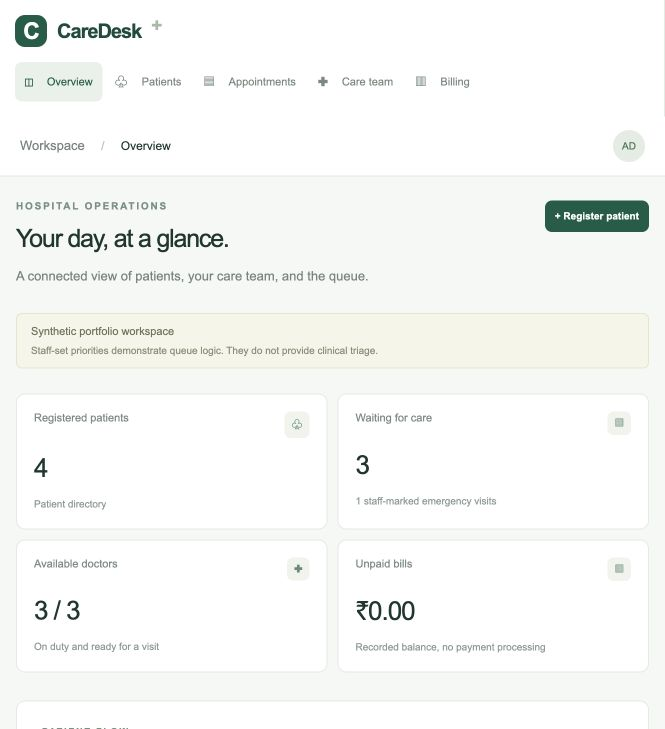
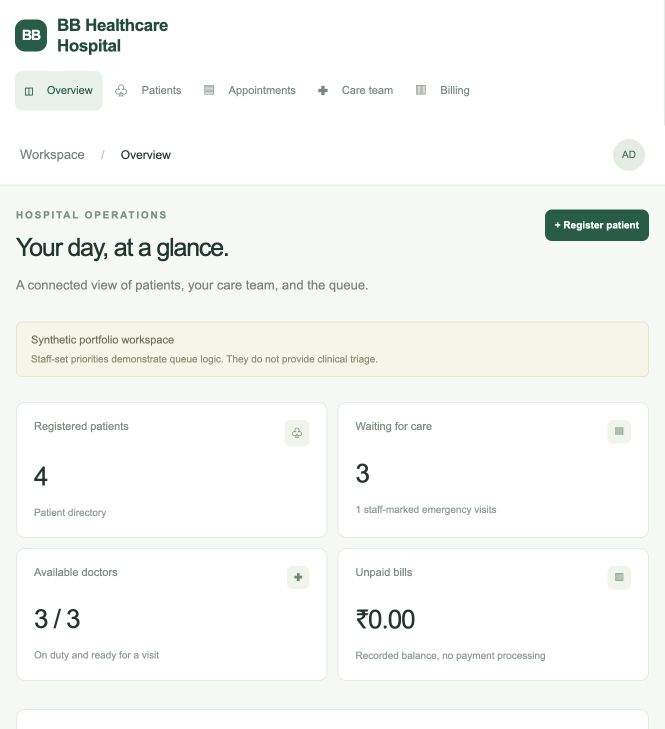
Rename hospital to BB Healthcare Hospital and update doctor names

diff --git a/frontend/style.css b/frontend/style.css
@@ -1,1 +1,3 @@
 :root{font-family:Arial,Helvetica,sans-serif;color:#20362f;background:#f6f8f6;font-synthesis:none;--green:#285c48;--muted:#78857e;--line:#e4eae6}*{box-sizing:border-box}body{margin:0}button,input,select,textarea{font:inherit}button{cursor:pointer;border:0;border-radius:7px;background:var(--green);color:white;padding:12px 18px;font-size:13px;font-weight:600}button:hover{filter:brightness(.94)}button:disabled{opacity:.5;cursor:wait}button:focus-visible,a:focus-visible{outline:3px solid #c5a560;outline-offset:3px}input,select,textarea{width:100%;border:1px solid #d9e2dc;border-radius:6px;padding:12px;background:white;color:#20362f}label{display:block;font-size:13px;font-weight:600;margin:16px 0}label input,label select,label textarea{margin-top:8px}textarea{min-height:92px;resize:vertical}[hidden]{display:none!important}.muted{color:var(--muted);font-size:13px;line-height:1.6}.eyebrow{font-size:10px;letter-spacing:1.8px;font-weight:700;color:#7b8f83;margin:0 0 12px}h1{font-size:34px;letter-spacing:-1.2px;font-weight:500;margin:0 0 12px}h2{font-size:19px;font-weight:500;letter-spacing:-.4px;margin:0}h3{font-weight:500;margin:0 0 7px}.sidebar{position:fixed;inset:0 auto 0 0;width:230px;background:white;border-right:1px solid var(--line);padding:34px 22px;display:flex;flex-direction:column}.brand{display:flex;align-items:center;gap:10px;font-size:23px;font-weight:600;letter-spacing:-1px;text-decoration:none;color:#234b3b}.brand-mark{background:#285c48;color:#fff;width:32px;height:32px;display:inline-grid;place-items:center;border-radius:10px;font-weight:600;font-size:23px}.brand-plus{font-size:19px;color:#a8bba6;align-self:flex-start}.nav-label{font-size:10px;letter-spacing:1.6px;color:#9aa59f;margin:52px 12px 18px}nav{display:grid;gap:7px}nav button{background:transparent;color:#7b887f;display:flex;gap:14px;align-items:center;text-align:left;font-size:18px;padding:14px}nav button span{font-size:13px;font-weight:500}nav button.active{background:#eaf1eb;color:#285c48}.sidebar-bottom{margin-top:auto;border-top:1px solid var(--line);padding:24px 9px 0}.sidebar-bottom p{font-size:12px;line-height:1.8}.sidebar-bottom small{color:#88948d;font-size:11px}.connection{font-size:10px;color:#698172;display:flex;gap:7px;align-items:center}.connection span{width:6px;height:6px;background:#6b9e7b;border-radius:50%}.quiet{padding:0;background:none;color:#5d7467;font-size:12px;margin-top:10px}main{margin-left:230px}.topbar{height:82px;border-bottom:1px solid var(--line);display:flex;align-items:center;justify-content:space-between;padding:0 42px;font-size:12px;background:#fff}.slash{color:#bac4be;margin:0 13px}.top-right{display:flex;align-items:center;gap:22px;font-size:11px;color:#6f8175}.avatar{display:grid;place-items:center;border-radius:50%;width:32px;height:32px;background:#e5ece3;color:#4c6f56;font-size:10px}.content{max-width:1550px;margin:auto;padding:42px}.page-heading{display:flex;justify-content:space-between;align-items:center;margin-bottom:26px}.page-heading p{margin-bottom:0}.page-heading .eyebrow{margin-bottom:12px}.demo-banner{border:1px solid #e6e6cf;background:#f5f5e9;border-radius:6px;padding:11px 14px;font-size:11px;color:#6e735a;margin-bottom:25px}.demo-banner span{font-size:10px;margin-left:14px;color:#8c8f7b}.metrics{display:grid;grid-template-columns:repeat(4,1fr);gap:17px;margin-bottom:28px}.metric{border:1px solid var(--line);background:#fff;padding:22px;border-radius:9px}.metric-top{display:flex;justify-content:space-between;color:#7d8b82;font-size:11px}.metric-icon{color:#6d8b74;background:#f0f4ed;border-radius:6px;padding:5px 7px}.metric strong{display:block;font-size:32px;font-weight:500;letter-spacing:-1px;margin:15px 0 10px}.metric small{color:#8e9a92;font-size:10px}.main-grid{display:grid;grid-template-columns:1.65fr 1fr;gap:24px}.panel{background:white;border:1px solid var(--line);border-radius:9px;overflow:hidden;margin-bottom:22px}.panel-heading{padding:25px;display:flex;align-items:center;justify-content:space-between;gap:15px}.panel-heading .eyebrow{font-size:9px;margin-bottom:8px}.pill,.badge{font-size:10px;padding:6px 9px;background:#f0f4ee;color:#627d66;border-radius:5px;white-space:nowrap}.badge.urgent{background:#fbebe4;color:#b2744d}.badge.busy{background:#f6efdf;color:#9c8044}.badge.completed,.badge.paid{background:#e9f1ea;color:#44775a}.badge.cancelled{background:#eee;color:#8a8a8a}table{width:100%;border-collapse:collapse;font-size:12px;text-align:left}th{background:#fafbf9;color:#94a095;font-weight:500;font-size:10px;letter-spacing:.25px;padding:13px 22px;border-block:1px solid #eef1ed}td{padding:18px 22px;border-bottom:1px solid #f0f2ef;color:#64766c}td:first-child{color:#304f3e}tr:last-child td{border-bottom:0}.table-wrap{overflow:auto}.patient-name{font-weight:600;color:#355441;font-size:12px}.cell-sub{font-size:10px;color:#9aa59c;margin-top:5px}.mini-avatar{display:inline-grid;place-items:center;width:32px;height:32px;border-radius:50%;background:#ecf0e9;color:#70846f;font-size:10px;margin-right:10px;vertical-align:middle}.team-row{padding:20px 24px;border-top:1px solid #f0f3ee;display:flex;align-items:center;gap:12px}.team-info{flex:1}.team-info strong{font-size:12px;font-weight:500}.team-info p{margin:5px 0 0;font-size:10px;color:#95a095}.status-dot{display:inline-block;width:5px;height:5px;border-radius:50%;background:currentColor;margin-right:5px}.text-button{background:none;color:#5f8069;padding:3px;font-size:11px}.secondary{background:white;color:#41644d;border:1px solid #d8e1d8}.workflow-note{display:flex;align-items:center;gap:18px;background:#e9eee4;padding:25px;border-radius:9px;margin-top:8px}.note-symbol{font-size:26px;color:#819776}.workflow-note h3{font-size:14px}.workflow-note p{margin:0;color:#82917d;font-size:11px;line-height:1.7;max-width:580px}.workflow-note button{margin-left:auto;white-space:nowrap;font-size:11px}footer{border-top:1px solid var(--line);margin-top:38px;padding-top:22px;color:#78907d;font-size:11px}footer span{float:right;color:#a1aca2;font-size:10px}.section-tools{display:flex;align-items:center;justify-content:space-between;gap:20px;margin-bottom:22px}.section-tools input{max-width:350px}.doctor-actions{display:flex;flex-wrap:wrap;gap:12px;margin-bottom:22px}.doctor-actions button{font-size:11px}.doctor-grid{display:grid;grid-template-columns:repeat(3,1fr);gap:20px}.doctor-card{padding:25px;background:white;border:1px solid var(--line);border-radius:9px}.doctor-card h2{margin:16px 0 8px}.doctor-card .badge{display:inline-block;margin:15px 0}.doctor-card button{display:block;width:100%;margin-top:9px}.row-actions{display:flex;gap:8px;flex-wrap:wrap}.row-actions button{padding:6px 8px;font-size:10px;background:#edf2ea;color:#4b6b51}.empty{padding:35px;color:#99a49b;font-size:13px;text-align:center}#notice{padding:13px;border-radius:6px;background:#e4eee2;color:#42664b;margin-bottom:18px;font-size:12px}#notice.error{background:#f9e8e4;color:#a25a48}dialog{border:1px solid var(--line);border-radius:14px;padding:28px;width:min(480px,95vw);box-shadow:0 20px 100px #193b3020}dialog::backdrop{background:#12302666}.modal-heading{display:flex;justify-content:space-between;align-items:center}#modal-submit{width:100%;margin-top:12px}#modal-error,#login-error{font-size:12px;color:#a64d37}#history-content{padding:0 25px}.record{border-top:1px solid var(--line);padding:20px 0}.record h3{font-size:14px}.record p{font-size:12px;white-space:pre-wrap;color:#6c8171}.record small{color:#8e9c91;font-size:10px}#more-history{margin:0 25px 25px}.login-screen{min-height:100vh;display:grid;grid-template-columns:1fr 1fr;background:white}.login-card{width:min(400px,80%);margin:auto;padding:60px 0}.login-card .eyebrow{margin-top:28px}.login-card h1{font-size:36px;line-height:1.2}.login-card button{width:100%;text-align:left;margin-top:10px}.login-card button span{float:right}.login-card small{display:block;font-size:10px;color:#98a69a;margin-top:30px}.login-art{background:#dfe8da;display:flex;flex-direction:column;justify-content:center;padding:80px;position:relative;overflow:hidden}.login-art p{font-size:50px;line-height:1.2;color:#3f654d;letter-spacing:-2px;z-index:1}.login-art span{font-size:10px;letter-spacing:3px;color:#7f957c;z-index:1}.orbit{width:550px;height:550px;border:1px solid #c7d5c0;position:absolute;border-radius:50%;left:20%;top:8%}.orbit:after{content:'';position:absolute;inset:55px;border:1px solid #c7d5c0;border-radius:50%}@media(min-width:1600px){.content{padding-top:55px}}@media(max-width:1150px){.sidebar{width:190px;padding-inline:15px}main{margin-left:190px}.content{padding:28px}.main-grid{grid-template-columns:1fr}.metrics{gap:10px}.metric{padding:17px}.doctor-grid{grid-template-columns:repeat(2,1fr)}.demo-banner span{display:block;margin:7px 0 0}}@media(max-width:700px){.sidebar{position:static;width:100%;padding:15px}.sidebar .brand{font-size:20px}.sidebar nav{display:flex;overflow:auto;gap:2px;margin-top:15px}.sidebar nav button{padding:10px;font-size:13px;white-space:nowrap}.sidebar nav button span{font-size:11px}.sidebar-bottom,.nav-label{display:none}main{margin-left:0}.topbar{padding:0 20px;height:60px}.content{padding:24px 16px}.page-heading{align-items:flex-start;gap:12px}.page-heading h1{font-size:25px}.page-heading>button{font-size:10px;padding:10px}.metrics{grid-template-columns:repeat(2,1fr)}.metric strong{font-size:26px}.doctor-grid{grid-template-columns:1fr}.workflow-note{flex-wrap:wrap}.workflow-note button{margin-left:0}footer span{float:none;display:block;margin-top:10px}.login-screen{grid-template-columns:1fr}.login-art{display:none}.section-tools{align-items:flex-start}.top-right>span:first-child{display:none}td,th{padding:14px}.page-subtitle{font-size:12px}}
+
+.brand-name{font-size:17px;line-height:1.2;letter-spacing:-.4px}.brand-mark{font-size:14px;flex-shrink:0}.brand-plus{display:none}

diff --git a/frontend/index.html b/frontend/index.html
@@ -1,11 +1,11 @@
 <!doctype html>
-<html lang="en"><head><meta charset="UTF-8"><meta name="viewport" content="width=device-width,initial-scale=1"><title>CareDesk — Hospital Management</title><link rel="stylesheet" href="/style.css"><script type="module" src="/app.js"></script></head>
+<html lang="en"><head><meta charset="UTF-8"><meta name="viewport" content="width=device-width,initial-scale=1"><title>BB Healthcare Hospital — Hospital Management</title><link rel="stylesheet" href="/style.css"><script type="module" src="/app.js"></script></head>
 <body>
 <section id="login-screen" class="login-screen"><form id="login-form" class="login-card">
-<div class="brand-mark">C</div><p class="eyebrow">CAREDESK</p><h1>A clear view of<br>your care operations.</h1><p class="muted">Sign in to manage patients, appointments, and daily hospital workflows.</p>
+<div class="brand-mark">BB</div><p class="eyebrow">BB HEALTHCARE HOSPITAL</p><h1>A clear view of<br>your care operations.</h1><p class="muted">Sign in to manage patients, appointments, and daily hospital workflows.</p>
 <label>Username<input name="username" autocomplete="username" required></label><label>Password<input type="password" name="password" autocomplete="current-password" required></label><button>Sign in <span>↗</span></button><p id="login-error" role="alert"></p><small>Portfolio demonstration. Use synthetic information only.</small></form><aside class="login-art"><div class="orbit"></div><p>People first.<br>Operations in sync.</p><span>SMART HOSPITAL MANAGEMENT</span></aside></section>
 <div id="workspace" hidden>
-<aside class="sidebar"><a class="brand" href="/" aria-label="CareDesk home"><span class="brand-mark">C</span>CareDesk<span class="brand-plus">+</span></a><p class="nav-label">WORKSPACE</p><nav aria-label="Main navigation"><button data-page="overview" class="active">◫ <span>Overview</span></button><button data-page="patients">♧ <span>Patients</span></button><button data-page="appointments">▤ <span>Appointments</span></button><button data-page="doctors">✚ <span>Care team</span></button><button data-page="billing">▥ <span>Billing</span></button></nav><div class="sidebar-bottom"><div class="connection"><span></span>Live updates connected</div><p>Hospital operations<br><small>Java · Node.js · MySQL</small></p><button id="logout" class="quiet">Sign out ↗</button></div></aside>
+<aside class="sidebar"><a class="brand" href="/" aria-label="BB Healthcare Hospital home"><span class="brand-mark">BB</span><span class="brand-name">BB Healthcare<br>Hospital</span><span class="brand-plus">+</span></a><p class="nav-label">WORKSPACE</p><nav aria-label="Main navigation"><button data-page="overview" class="active">◫ <span>Overview</span></button><button data-page="patients">♧ <span>Patients</span></button><button data-page="appointments">▤ <span>Appointments</span></button><button data-page="doctors">✚ <span>Care team</span></button><button data-page="billing">▥ <span>Billing</span></button></nav><div class="sidebar-bottom"><div class="connection"><span></span>Live updates connected</div><p>Hospital operations<br><small>Java · Node.js · MySQL</small></p><button id="logout" class="quiet">Sign out ↗</button></div></aside>
 <main><header class="topbar"><div><span class="muted">Workspace</span> <span class="slash">/</span> <span id="breadcrumb">Overview</span></div><div class="top-right"><span id="mode-label">Demo workspace</span><span class="avatar">AD</span></div></header>
 <div class="content"><div class="page-heading"><div><p class="eyebrow">HOSPITAL OPERATIONS</p><h1 id="page-title">Your day, at a glance.</h1><p class="muted" id="page-subtitle">A connected view of patients, your care team, and the queue.</p></div><button id="quick-add">+ Register patient</button></div>
 <div id="notice" role="status" hidden></div><div class="demo-banner">Synthetic portfolio workspace <span>Staff-set priorities demonstrate queue logic. They do not provide clinical triage.</span></div>
@@ -14,6 +14,6 @@
 <section id="appointments" class="page" hidden><div class="section-tools"><p class="muted">Emergency visits precede normal visits. Equal priority follows arrival order.</p><button id="new-appointment">+ Add appointment</button></div><div id="doctor-actions" class="doctor-actions"></div><section class="panel"><div id="appointment-table"></div></section></section>
 <section id="doctors" class="page" hidden><div class="section-tools"><p class="muted">Availability updates when a visit starts or finishes.</p><button id="add-doctor">+ Add doctor</button></div><div id="doctor-cards" class="doctor-grid"></div></section>
 <section id="billing" class="page" hidden><div class="section-tools"><p class="muted">Amounts in INR. Payment status is a ledger entry; no money is transferred.</p></div><section class="panel"><div id="bill-table"></div></section></section>
-<footer>CareDesk <span>Full-stack portfolio project. Local demonstration, not a clinical system.</span></footer></div></main></div>
+<footer>BB Healthcare Hospital <span>Full-stack portfolio project. Local demonstration, not a clinical system.</span></footer></div></main></div>
 <dialog id="modal"><form id="modal-form"><div class="modal-heading"><h2 id="modal-title"></h2><button type="button" id="close-modal" class="text-button" aria-label="Close dialog">✕</button></div><div id="modal-fields"></div><p id="modal-error" role="alert"></p><button id="modal-submit">Save</button></form></dialog>
 </body></html>

diff --git a/backend/store.js b/backend/store.js
@@ -37,7 +37,7 @@ export class MysqlStore {
 export class MemoryStore {
   constructor() {
     this.data={patients:[{id:1,name:'Aarav Demo',dob:'1997-05-14',phone:'0000000001'},{id:2,name:'Isha Demo',dob:'1985-09-03',phone:'0000000002'},{id:3,name:'Rohan Demo',dob:'2001-02-18',phone:'0000000003'},{id:4,name:'Anaya Demo',dob:'2016-11-22',phone:'0000000004'}],
-      doctors:[{id:1,name:'Dr. Mira Shah',specialty:'General medicine',on_duty:1},{id:2,name:'Dr. Arjun Rao',specialty:'Cardiology',on_duty:1},{id:3,name:'Dr. Leena Das',specialty:'Pediatrics',on_duty:1}],appointments:[],medical_records:[],bills:[]};
+      doctors:[{id:1,name:'Dr Komal',specialty:'General medicine',on_duty:1},{id:2,name:'Dr Gurdeep Singh',specialty:'Cardiology',on_duty:1},{id:3,name:'Dr Balbir',specialty:'Pediatrics',on_duty:1}],appointments:[],medical_records:[],bills:[]};
     this.tail=Promise.resolve();
     this.insert('appointments',{patient_id:1,doctor_id:1,priority:0,reason:'Routine follow-up',status:'waiting'});
     this.insert('appointments',{patient_id:2,doctor_id:1,priority:2,reason:'Staff-assigned urgent review',status:'waiting'});

diff --git a/frontend/app.js b/frontend/app.js
@@ -5,7 +5,7 @@ const escape=v=>String(v??'').replace(/[&<>"']/g,c=>({'&':'&amp;','<':'&lt;','>'
 const money=v=>new Intl.NumberFormat('en-IN',{style:'currency',currency:'INR'}).format(v/100);
 const patient=id=>state.patients.find(x=>x.id===id)?.name||`Patient #${id}`;
 const doctor=id=>state.doctors.find(x=>x.id===id)?.name||`Doctor #${id}`;
-const initials=name=>name.replace('Dr. ','').split(' ').map(s=>s[0]).slice(0,2).join('');
+const initials=name=>name.replace(/^Dr\.?\s+/, '').split(' ').map(s=>s[0]).slice(0,2).join('');
 function notice(message,error=false){$('#notice').textContent=message;$('#notice').className=error?'error':'';$('#notice').hidden=false;}
 async function api(path,method='GET',data){const res=await fetch('/api'+path,{method,headers:method==='GET'?{}:{'Content-Type':'application/json','X-CSRF-Token':csrf},...(data?{body:JSON.stringify(data)}:{})});const body=await res.json();if(!res.ok){if(res.status===401&&path!=='/login')showLogin();throw Error(body.error||'Request failed');}return body;}
 function showLogin(){events?.close();$('#workspace').hidden=true;$('#login-screen').hidden=false;}

diff --git a/README.md b/README.md
@@ -1,10 +1,10 @@
-# CareDesk — Smart Hospital Management System
+# BB Healthcare Hospital — Smart Hospital Management System
 
 A full-stack hospital-workflow portfolio project built with **Java 21, Node.js, MySQL 8.4, and vanilla JavaScript**. It connects patient registration, doctor availability, queue dispatch, visit records, and billing in one responsive interface.
 
 This is a separate project from the Expense and Budget Analysis repository. All seed patients and records are fictional. Use synthetic data only. The application demonstrates hospital operations; it does not make clinical triage decisions or process payments.
 
-![CareDesk dashboard](docs/dashboard.png)
+![BB Healthcare Hospital dashboard](docs/dashboard.png)
 
 ## Features
 
@@ -38,7 +38,7 @@ docker compose logs -f app scheduler
 docker compose down
 ```
 
-`docker compose down` preserves data. Schema changes require a migration against existing volumes; the init SQL runs only on a new database. Do not remove a data volume unless its contents are disposable.
+`docker compose down` preserves data. Schema changes require a migration against existing volumes; the init SQL runs only on a new database. Existing installations with the original demo doctor names can apply `db/002_rename_doctors.sql` using a MySQL client. It updates only the three matching demo records and preserves appointments and other data. Do not remove a data volume unless its contents are disposable.
 
 ## Quick preview without Java or MySQL
 
@@ -52,7 +52,7 @@ Open **http://127.0.0.1:3000**. Login: **admin / demo-hospital**. This mode bind
 
 ## Try a complete workflow
 
-1. Open Appointments and call the next patient for Dr. Mira Shah. Isha's staff-marked P2 emergency visit is selected before Aarav's normal visit.
+1. Open Appointments and call the next patient for Dr Komal. Isha's staff-marked P2 emergency visit is selected before Aarav's normal visit.
 2. Add synthetic visit notes and create a bill for the active appointment.
 3. Complete the visit. The doctor becomes available and other connected tabs refresh.
 4. Open Patients, search for Isha, and view the saved visit record.
